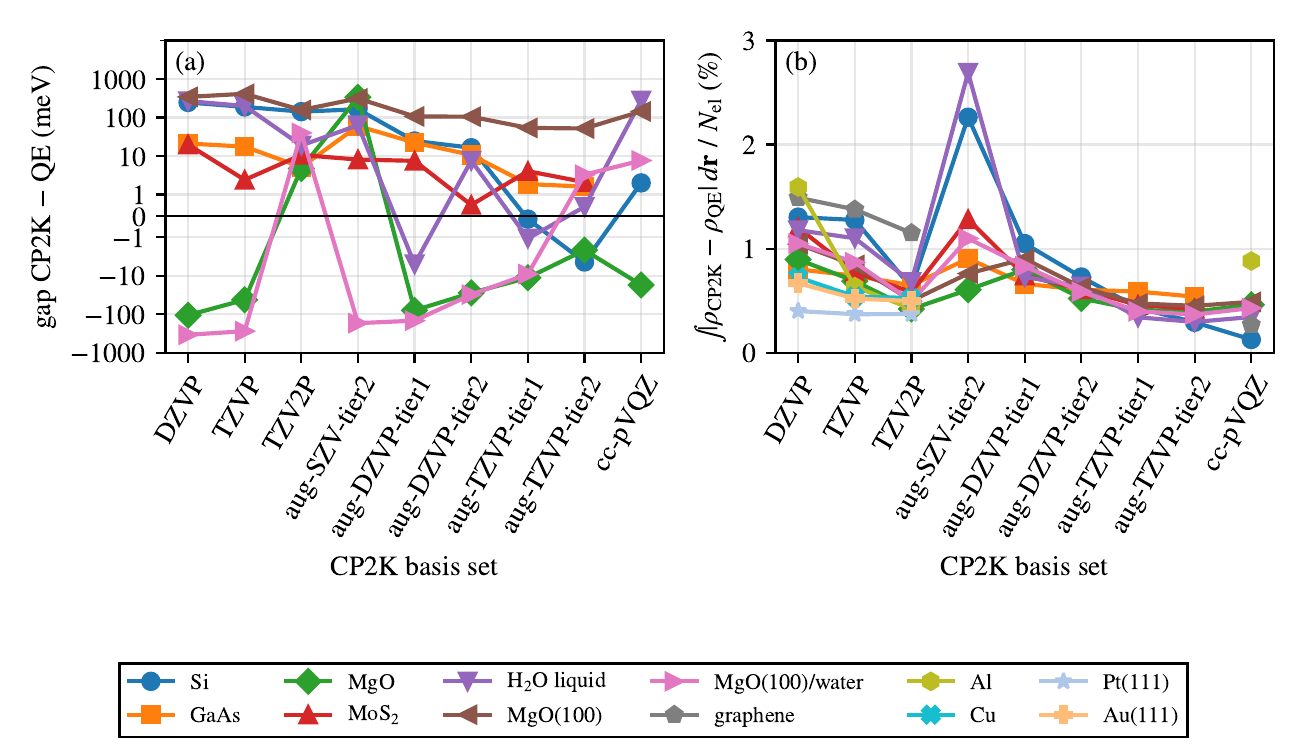
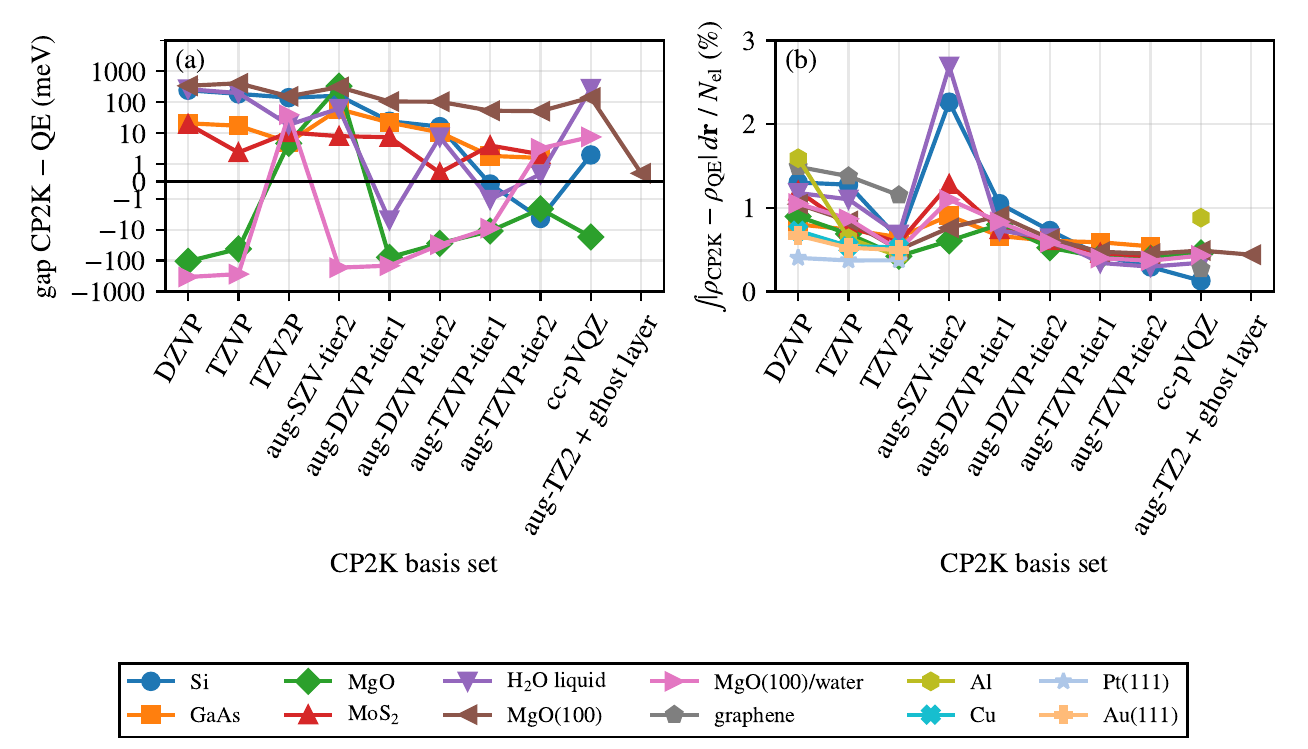
Figures 1 and 2 with one bar per basis set; MgO(100) gap with ghost atoms in the vacuum

diff --git a/README.md b/README.md
@@ -94,8 +94,7 @@ forum suggests a different setting for metals: Broyden α 0.1, β 1.5, NBROYDEN 
 
 ### Systems with a band gap
 
-The figure below shows the same 163 runs for every setting, split into three groups of basis sets (108 runs with
-DZVP to TZV2P, aug-DZ2 and ccGRB-Q; 32 runs with aug-TZ2; 23 runs with cc-pVQZ):
+The figure below shows the same 163 runs for every setting, one bar per basis set:
 - (a) SCF runs converged;
 - (b) SCF steps of the converged runs (box: 25–75 %, line: median, whiskers: minimum and maximum).
 
@@ -107,7 +106,7 @@ still running after 60–120 min (the time limit per run) count as not converged
 ### Metals and semimetals
 
 The figure below shows the same 84 runs (metals, graphene, graphite and the metallic (5,5) carbon nanotube), all
-with Fermi–Dirac smearing, split into the same three groups of basis sets (59, 17 and 8 runs).
+with Fermi–Dirac smearing, one bar per basis set.
 
 ![Systems without a band gap](closed_shell/figures/converged_nogap.png)
 
@@ -135,7 +134,9 @@ same structures and the Γ point. With aug-TZVP tier-2 the results agree as foll
 
 The remaining 52 meV for MgO(100) come from the CP2K basis set, not from the QE cutoff (the QE gap changes by 3 meV
 from 400 to 600 Ry): the lowest conduction state of the free surface extends into the vacuum and needs diffuse
-functions. cc-pVQZ, which has no diffuse functions, differs by 143 meV.
+functions. cc-pVQZ, which has no diffuse functions, differs by 143 meV. A test confirms this: with one layer of
+ghost atoms (Mg and O basis functions without nuclei) 2.1 Å above and below the slab, the difference drops from 52
+to 0.5 meV (point "aug-TZ2 + ghost layer" in the figure).
 
 QE uses the highest plane-wave cutoff that converged (200–800 Ry; MgO needs 600–800 Ry). In panel (a), metals and
 graphene are left out; the axis is logarithmic on both sides and linear between −1 and 1 meV.
